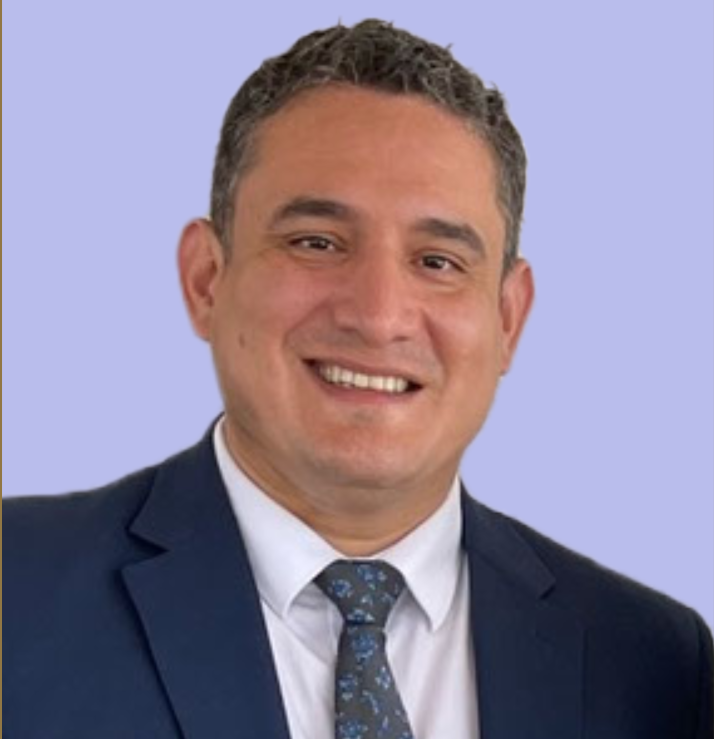
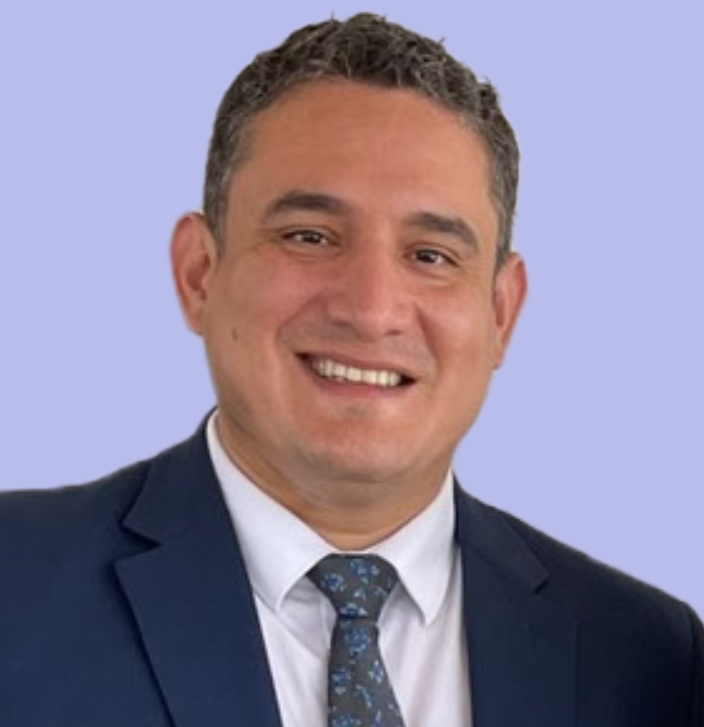
updated about me picture

diff --git a/portfolio/src/components/Home.jsx b/portfolio/src/components/Home.jsx
@@ -59,7 +59,7 @@ const Home = () => {
                   </div>
                   <div className="home-col-2">
                         <div className="homeImg-container">
-                              <img src="src/assets/aboutme.png"/>
+                              <img src="src/assets/aboutMe.png"/>
                         </div>
                         <div className="icons-container">
                               <div class="home-icons">
